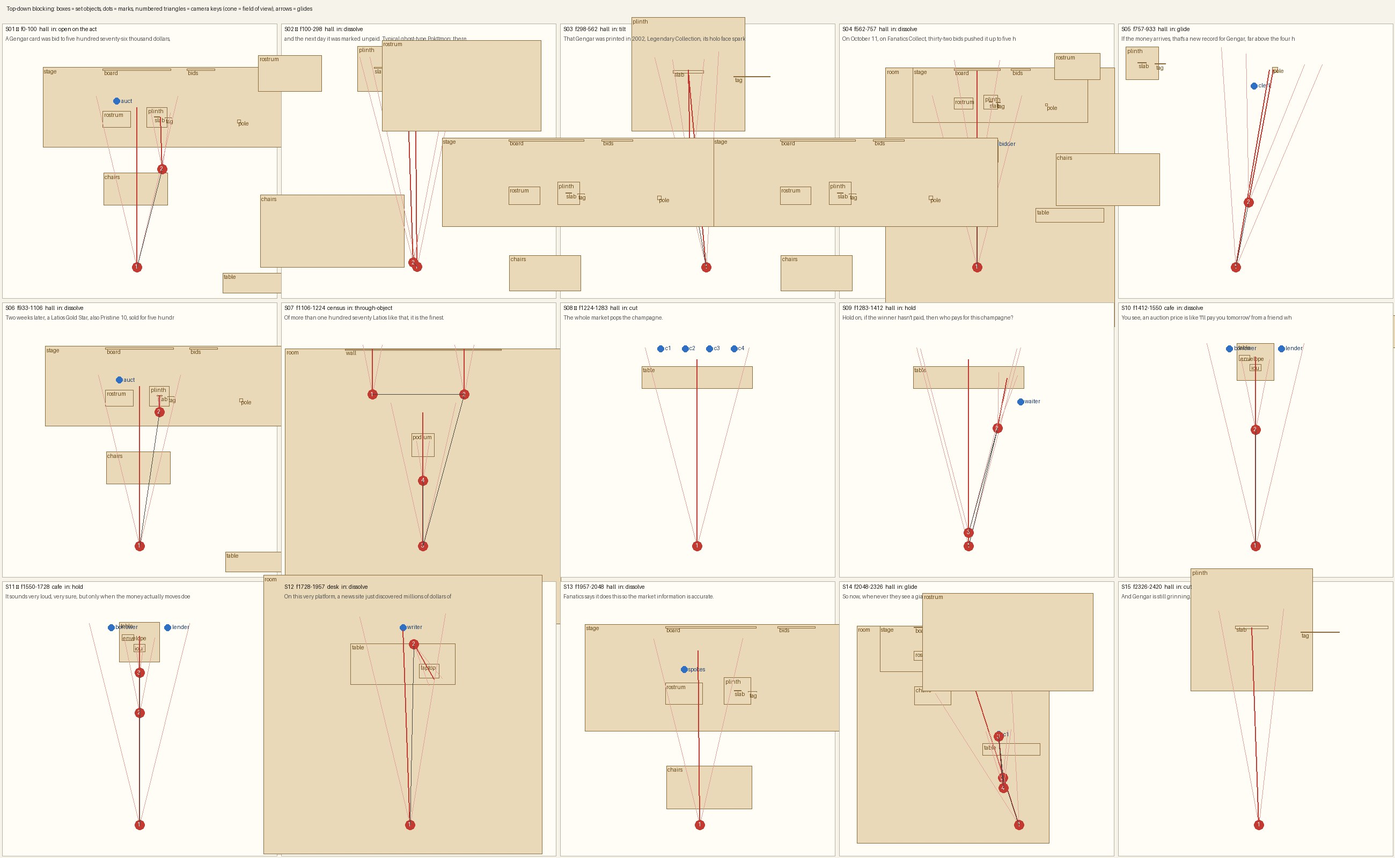
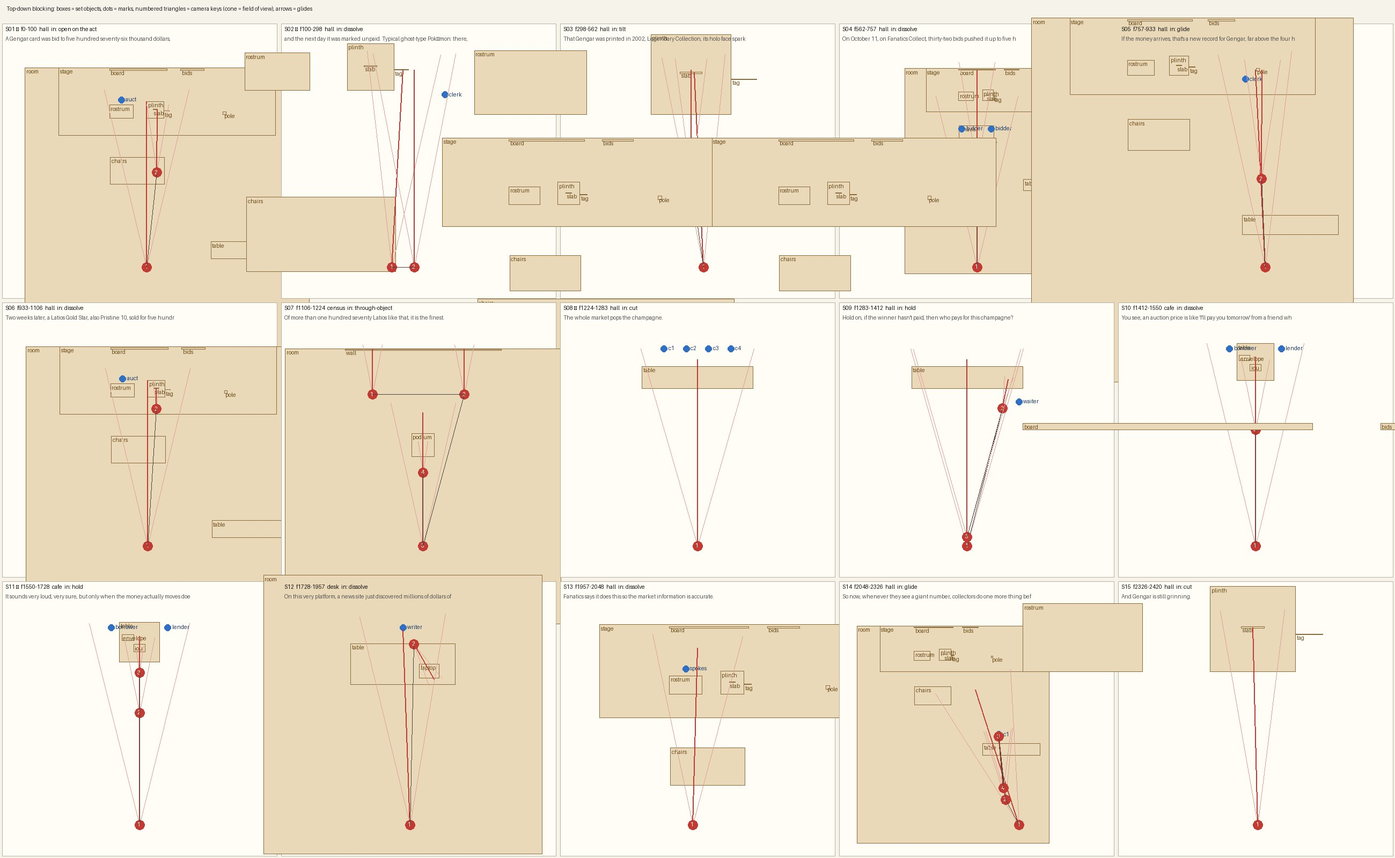
Gengar reel: notes, direction, CLAUDE.md row, framing fixes (tag string, wide, ghost tilt, bill insert)

diff --git a/src/videos/gengar/art2.ts b/src/videos/gengar/art2.ts
@@ -236,7 +236,7 @@ type Row = { img: string; name: string; price: number; date: string };
 export const ROWS: Row[] = [
   { img: "zard_base", name: "Charizard · Base Set", price: 336000, date: "09/10" },
   { img: "ds_metagross_star", name: "Metagross ★ · Delta Species", price: 108000, date: "06/10" },
-  { img: "sky_h3", name: "Celebi · Skyridge", price: 192000, date: "03/10" },
+  { img: "sky_h3", name: "Articuno · Skyridge", price: 192000, date: "03/10" },
   { img: "mewtwo", name: "Mewtwo · Base Set", price: 64000, date: "28/09" },
   { img: "zard_lc", name: "Charizard · Legendary Col.", price: 1250000, date: "21/09" },
   { img: "ds_rayquaza", name: "Rayquaza · Delta Species", price: 846000, date: "14/09" },

diff --git a/videos/gengar-unpaid/mkplan.py b/videos/gengar-unpaid/mkplan.py
@@ -14,11 +14,11 @@ SY = 0.3   # stage top
 HALL = dict(room=[-4.2, 4.2, -4.0, 5.5], h=4.2, stage=[-3.2, 3.2, -4.0, -2.0], stage_y=SY,
             rostrum=[-1.7, -1.0, -2.9, -2.5], rostrum_y=1.4, auct=[-1.35, -3.05], block=[-1.35, 1.42, -2.8],
             plinth=[-0.6, -0.1, -3.0, -2.5], plinth_y=1.22, slab=[-0.35, 1.43, -2.76], slab_size=[0.2, 0.32], slab_tilt=0.2,
-            tag_top=[-0.2, 1.72, -2.72], tag_len=0.15, tag_size=[0.24, 0.135],
+            tag_top=[-0.02, 1.72, -2.72], tag_len=0.15, tag_size=[0.24, 0.135],
             board=[-0.85, 2.85, -3.94], board_size=[1.7, 0.645], bids=[0.75, 2.8, -3.94], bids_size=[0.7, 0.45],
             letters=[-0.85, 3.62, -3.94], calendar=[-2.6, 2.2, -3.94],
             pole=[1.7, -2.65], pole_top=3.5, mark_k=250000.0, old=408000, new=576000, clerk_pole=[1.38, -2.4],
-            clerk_in=[1.05, -2.4], clerk_tag=[0.3, -2.45],
+            clerk_in=[1.05, -2.4], clerk_tag=[0.45, -2.45],
             bidders=[[-1.55, -1.2], [-0.2, -1.2], [-0.88, -0.5]],
             table=[1.3, 3.8, 1.15, 1.65], table_y=1.0, coll=[[1.8, 0.75], [2.3, 0.75], [2.8, 0.75], [3.3, 0.75]],
             tower=[2.55, 1.0, 1.4], waiter_in=[4.0, 2.3], waiter=[3.72, 1.95], bill=[3.45, 1.0, 1.42], c1_late=[2.0, 0.75])
@@ -39,7 +39,7 @@ COLL_HEAD = [[x, 1.55, z] for x, z in H["coll"]]
 SCREEN = DESK["screen"]
 CAM_POV = dict(pos=[0.19, 1.17, -1.21], look=SCREEN)
 PHONE = [2.06, 1.28, 1.02]; EYE14 = [2.0, 1.66, 0.75]
-WIDE = dict(pos=[-0.75, 1.8, 1.9], look=[-0.75, 1.95, -3.0])   # the stage: the board over the rostrum and the lot plinth (S01, S06)
+WIDE = dict(pos=[-0.6, 1.8, 1.9], look=[-0.6, 1.95, -3.0])   # the stage: the board over the rostrum and the lot plinth (S01, S06)
 
 P = {
  "fps": 30, "frames": 2420, "voice_end": 2389,
@@ -134,8 +134,8 @@ scene(id="S02", hero=True, f=[100, 298], set="hall", light="day", dim=0.86,
   blocking="Clerk enters from the stage right (clerk_in) f104-140 to the clerk mark beside the plinth, faces +z.",
   action="f104-140 the clerk walks in; f150-156 his left arm (screen right) reaches the tag's edge, f156 a flick (2 f before 'chưa' f158): the tag spins on its string 1.5 turns, slowing, and stops on its back, CHƯA THANH TOÁN in red, by f182; f196-236 'hệ ma': the tag shivers (2 mm jitter) and fades to a purple see-through ghost, its corners curling like a sheet; f243 'có đó' it hangs; f262 it slips off the string and floats up with a slow S-wobble (0.6 m/s); f278-292 'biến mất' it fades out at y 2.6; the empty string sways. The clerk looks up, shocked.",
   acting="Clerk: neutral -> shock on the lift (f262).",
-  cams=[k(100, [-0.25, 1.6, -0.6], [-0.12, 1.55, -2.72], 34, push=0.0015, blur=8, focus=TAG, why="the plinth next day; the clerk comes in"),
-        k(254, [-0.2, 1.72, -0.6], [-0.15, 2.35, -2.72], 38, glide=30, push=0.001, blur=6, focus=[TAG[0], 2.3, TAG[2]], why="tilt up with the ghost")],
+  cams=[k(100, [-0.12, 1.6, -0.6], [0.0, 1.55, -2.72], 34, push=0.0015, blur=8, focus=TAG, why="the plinth next day; the clerk comes in"),
+        k(254, [0.12, 1.72, -0.6], [0.12, 2.3, -2.72], 38, glide=30, push=0.001, blur=6, focus=[TAG[0], 2.3, TAG[2]], why="tilt up with the ghost")],
   kicks=[], marks=[{"who": "clerk", "at": H["clerk_tag"], "view": "front", "pose": "walks in f104-140; flicks the tag f156; looks up f262", "expr": "neutral -> shock"}],
   subjects=[{"n": "tag", "p": TAG, "f": [100, 250]}],
   physics="tag spin: torsion pendulum, 1.5 turns decaying to rest on its back. Ghost: no gravity, rises 0.6 m/s with a sine side-wobble (amplitude 4 cm, 1.2 Hz), fades over 14 f.",
@@ -248,7 +248,7 @@ scene(id="S09", f=[1283, 1412], set="hall", light="day",
   action="f1285 'Khoan đã': the music cuts; everyone freezes mid-laugh (the one stillness, 10 f); f1336-1356 the waiter slides the folder onto the table's right end (bill mark), opens it; f1360-1385 collectors' eyes go to the bill; f1391 'ai trả?' (f1393): all four point at another collector with their right arm (c1 -> c2, c2 -> c3, c3 -> c4, c4 -> c1).",
   acting="Collectors: laugh -> frozen -> nervous; the waiter: polite smile.",
   cams=[k(1283, [2.55, 2.05, 5.2], [2.55, 1.25, 1.0], 54, glide=10, push=0.001, blur=4, focus=COLL_HEAD[1], why="the freeze"),
-        k(1330, [3.3, 2.0, 2.3], [3.42, 1.02, 1.42], 30, glide=30, push=0.002, blur=10, focus=H["bill"], why="the bill"),
+        k(1330, [3.35, 2.2, 2.1], [3.48, 1.0, 1.45], 28, glide=30, push=0.002, blur=10, focus=H["bill"], why="the bill"),
         k(1376, [2.55, 2.0, 5.0], [2.55, 1.25, 1.0], 54, glide=18, push=0.002, blur=4, focus=COLL_HEAD[1], why="everyone points")],
   kicks=[], marks=[{"who": "waiter", "at": H["waiter"], "view": "front", "pose": "walks in, slides the bill f1336-1356", "expr": "smile"}],
   subjects=[{"n": "bill", "p": H["bill"], "f": [1350, 1375]}] + [{"n": f"c{i+1} head", "p": COLL_HEAD[i], "f": [1395, 1411]} for i in range(4)],

diff --git a/videos/gengar-unpaid/direction.md b/videos/gengar-unpaid/direction.md
@@ -27,7 +27,7 @@ Hard cuts: S08 (the champagne) and S15 (Gengar at night). Dissolves for every ti
 ### hall
 - Origin in the shared world: [0, 0, 0]. Axes: the stage along the back wall (z -4..-2); +z toward the champagne table and the lens.
 - Light: day; sun az/el [-30, 40]. Open camera sides: +z.
-- Marks [x, z]: auct [-1.35, -3.15]; clerk [0.22, -2.45]; c1 [1.73, 0.75].
+- Marks [x, z]: auct [-1.35, -3.05]; clerk [0.45, -2.45]; c1 [1.8, 0.75].
 
 | id | build | centre [x, y, z] | size [x, y, z] m |
 |---|---|---|---|
@@ -35,8 +35,8 @@ Hard cuts: S08 (the champagne) and S15 (Gengar at night). Dissolves for every ti
 | stage | new: oak stage x -3.2..3.2, z -4..-2, top y 0.3, a dark front skirt | [0, 0.15, -3] | [6.4, 0.3, 2] |
 | rostrum | new: oak rostrum 70 x 40 cm, top y 1.4, a sound block and the gavel on top; FANATICS COLLECT plate on its front | [-1.35, 0.85, -2.7] | [0.7, 1.1, 0.4] |
 | plinth | new: white lot plinth 50 x 50 cm, top y 1.22; a brass easel holds the slab tilted back 0.2 rad; a brass arm on its right with a tag holder (the tag drops from it on a string) | [-0.35, 0.76, -2.75] | [0.5, 0.92, 0.5] |
-| slab | adapt:slabReal: a CGC-style case 13.5 x 21.5 cm (1.6x real, so it reads), gold label 'PRISTINE 10', the real Legendary Collection Gengar scan | [-0.35, 1.4, -2.76] | [0.135, 0.215, 0.012] |
-| tag | new: card tag 16 x 9 cm on a string (13 cm): front SOLD $576,000, back CHƯA THANH TOÁN in red; spins on its string; turns into a purple see-through ghost | [-0.07, 1.465, -2.74] | [0.16, 0.09, 0.003] |
+| slab | adapt:slabReal: a CGC-style case 20 x 32 cm (2.4x real, so it reads next to the people), gold label 'PRISTINE 10', the real Legendary Collection Gengar scan | [-0.35, 1.43, -2.76] | [0.135, 0.215, 0.012] |
+| tag | new: card tag 24 x 13.5 cm (oversized to read) on a string (15 cm): front SOLD $576,000, back CHƯA THANH TOÁN in red; spins on its string; turns into a purple see-through ghost | [-0.02, 1.5025, -2.72] | [0.16, 0.09, 0.003] |
 | board | reuse:priceBoardW: the price board 170 x 64.5 cm on the back wall (canvas), amber digits, SOLD lamp; CHÍNH XÁC lamp added under it (S13) | [-0.85, 2.85, -3.94] | [1.7, 0.645, 0.04] |
 | bids | new: bid counter 70 x 45 cm: LƯỢT TRẢ GIÁ and a two-digit flap count | [0.75, 2.8, -3.94] | [0.7, 0.45, 0.04] |
 | pole | new: record pole 8 cm square, y 0.3..3.5, a painted scale every $100k; plate KỶ LỤC GENGAR on top; brass marker $408,000 · 06/2026; a pull cord over a pulley at the top raises the new marker | [1.7, 1.9, -2.65] | [0.08, 3.2, 0.08] |
@@ -97,15 +97,15 @@ Hard cuts: S08 (the champagne) and S15 (Gengar at night). Dissolves for every ti
 - Set: hall. Light: day.
 - Build: new: the hall stage, rostrum with sound block, lot plinth with the Gengar slab and the tag arm, price board, bid counter, FANATICS COLLECT letters.
 - Blocking: Auctioneer behind the rostrum (auct mark, on the stage), gavel raised in his right arm (screen left) from f0.
-  - auct at [-1.35, -3.15], front; standing; gavel wind-up f70-76, slam f79; grin -> squeeze.
+  - auct at [-1.35, -3.05], front; standing; gavel wind-up f70-76, slam f79; grin -> squeeze.
 - Action, against the words: f0-70 the board counts the last steps up to $576,000 (in time with 'năm trăm bảy mươi sáu'); f70-76 wind-up of the gavel, held at the top f73-76; f79 the gavel slams the block (2 f before 'đô' f81): the board snaps to $576,000 with the red SOLD lamp; f80 the tag drops 15 cm out of its brass holder on its string and swings (damped pendulum, 4 swings) showing SOLD $576,000; f84-100 glide down to the slab and the swinging tag.
 - Acting: Auctioneer: a showman's grin; on the slam his eyes shut tight.
 - Camera keys:
 
 | f | move | pos | look | fov | push %/f | blur px | why |
 |---|---|---|---|---|---|---|---|
-| 0 | open | [-0.85, 1.75, 1] | [-0.85, 1.9, -3] | 46 | 0.2 | 4 | the board over the rostrum and the lot |
-| 84 | glide 22 f | [-0.22, 1.5, -1.45] | [-0.25, 1.46, -2.75] | 34 | 0.2 | 10 | push to the slab and the tag |
+| 0 | open | [-0.6, 1.8, 1.9] | [-0.6, 1.95, -3] | 46 | 0.2 | 4 | the board over the rostrum and the lot |
+| 84 | glide 22 f | [-0.3, 1.55, -0.9] | [-0.28, 1.5, -2.75] | 32 | 0.2 | 10 | push to the slab and the tag |
 
 - Kicks (7 f): f79 strength 1.
 - Physics & FX: tag: pendulum on a 13 cm string, released at f80 from 15 cm up: drops, snaps taut, swings ±25 deg damped (settles by f130). Gavel: 1 f strike, 2 f squash of the block.
@@ -120,15 +120,15 @@ Hard cuts: S08 (the champagne) and S15 (Gengar at night). Dissolves for every ti
 - Set: hall. Light: day.
 - Build: reuse the hall, empty, cooler light; the tag hanging.
 - Blocking: Clerk enters from the stage right (clerk_in) f104-140 to the clerk mark beside the plinth, faces +z.
-  - clerk at [0.22, -2.45], front; walks in f104-140; flicks the tag f156; looks up f262; neutral -> shock.
+  - clerk at [0.45, -2.45], front; walks in f104-140; flicks the tag f156; looks up f262; neutral -> shock.
 - Action, against the words: f104-140 the clerk walks in; f150-156 his left arm (screen right) reaches the tag's edge, f156 a flick (2 f before 'chưa' f158): the tag spins on its string 1.5 turns, slowing, and stops on its back, CHƯA THANH TOÁN in red, by f182; f196-236 'hệ ma': the tag shivers (2 mm jitter) and fades to a purple see-through ghost, its corners curling like a sheet; f243 'có đó' it hangs; f262 it slips off the string and floats up with a slow S-wobble (0.6 m/s); f278-292 'biến mất' it fades out at y 2.6; the empty string sways. The clerk looks up, shocked.
 - Acting: Clerk: neutral -> shock on the lift (f262).
 - Camera keys:
 
 | f | move | pos | look | fov | push %/f | blur px | why |
 |---|---|---|---|---|---|---|---|
-| 100 | open | [0.06, 1.55, -0.55] | [0.04, 1.52, -2.72] | 42 | 0.15 | 8 | the plinth next day; the clerk comes in |
-| 254 | glide 30 f | [0.02, 1.66, -0.6] | [-0.05, 2.35, -2.74] | 44 | 0.1 | 6 | tilt up with the ghost |
+| 100 | open | [-0.12, 1.6, -0.6] | [0, 1.55, -2.72] | 34 | 0.15 | 8 | the plinth next day; the clerk comes in |
+| 254 | glide 30 f | [0.12, 1.72, -0.6] | [0.12, 2.3, -2.72] | 38 | 0.1 | 6 | tilt up with the ghost |
 
 - Kicks (7 f): none.
 - Physics & FX: tag spin: torsion pendulum, 1.5 turns decaying to rest on its back. Ghost: no gravity, rises 0.6 m/s with a sine side-wobble (amplitude 4 cm, 1.2 Hz), fades over 14 f.
@@ -149,8 +149,8 @@ Hard cuts: S08 (the champagne) and S15 (Gengar at night). Dissolves for every ti
 
 | f | move | pos | look | fov | push %/f | blur px | why |
 |---|---|---|---|---|---|---|---|
-| 298 | open | [-0.27, 1.47, -1.9] | [-0.35, 1.43, -2.76] | 30 | 0.2 | 12 | the slab |
-| 512 | glide 26 f | [-0.34, 1.53, -2.28] | [-0.35, 1.5, -2.77] | 26 | 0.3 (punch 0.6 for 12 f) | 12 | the label: PRISTINE 10 |
+| 298 | open | [-0.27, 1.5, -1.55] | [-0.33, 1.46, -2.76] | 30 | 0.2 | 12 | the slab |
+| 512 | glide 26 f | [-0.35, 1.58, -2.08] | [-0.35, 1.55, -2.78] | 26 | 0.3 (punch 0.6 for 12 f) | 12 | the label: PRISTINE 10 |
 
 - Kicks (7 f): none.
 - Physics & FX: none.
@@ -174,7 +174,7 @@ Hard cuts: S08 (the champagne) and S15 (Gengar at night). Dissolves for every ti
 
 | f | move | pos | look | fov | push %/f | blur px | why |
 |---|---|---|---|---|---|---|---|
-| 562 | open | [-0.85, 1.95, 3.3] | [-0.85, 1.72, -2.6] | 50 | 0.15 | 4 | the bidders under the boards |
+| 562 | open | [-0.85, 2.55, 5.2] | [-0.85, 1.6, -2.2] | 46 | 0.15 | 4 | the bidders under the boards |
 | 722 | glide 30 f | [-0.85, 2.45, 0.6] | [-0.85, 2.7, -3.9] | 34 | 0.2 | 6 | the board lands on $576,000 |
 
 - Kicks (7 f): f750 strength 0.5.
@@ -197,8 +197,8 @@ Hard cuts: S08 (the champagne) and S15 (Gengar at night). Dissolves for every ti
 
 | f | move | pos | look | fov | push %/f | blur px | why |
 |---|---|---|---|---|---|---|---|
-| 757 | open | [1.1, 2.05, 0.4] | [1.62, 2.05, -2.65] | 46 | 0.15 | 6 | the record pole |
-| 880 | glide 30 f | [1.3, 2.2, -0.6] | [1.68, 2.2, -2.65] | 40 | 0.2 | 8 | the two markers |
+| 757 | open | [1.9, 2.3, 2.5] | [1.65, 2.1, -2.65] | 34 | 0.15 | 6 | the record pole |
+| 880 | glide 30 f | [1.8, 2.35, 0.2] | [1.82, 2.25, -2.65] | 30 | 0.2 | 8 | the two markers |
 
 - Kicks (7 f): none.
 - Physics & FX: marker: kinematic on the pole, eased per pull, a 1 cm overshoot at the top.
@@ -213,15 +213,15 @@ Hard cuts: S08 (the champagne) and S15 (Gengar at night). Dissolves for every ti
 - Set: hall. Light: day.
 - Build: reuse the S01 frame; the Latios slab (real EX Deoxys Latios Gold Star scan, gold PRISTINE 10 label) on the easel; a new SOLD tag in the holder.
 - Blocking: Auctioneer at the rostrum, gavel raised.
-  - auct at [-1.35, -3.15], front; slam f1094; grin -> squeeze.
+  - auct at [-1.35, -3.05], front; slam f1094; grin -> squeeze.
 - Action, against the words: f1062-1092 the board climbs $420,000 -> $504,000; f1084-1090 wind-up, f1094 slam (3 f before 'nghìn' f1097): board $504,000 + SOLD, the new tag drops and swings; f1096-1106 push into the slab.
 - Acting: Auctioneer grin, squeeze on the slam.
 - Camera keys:
 
 | f | move | pos | look | fov | push %/f | blur px | why |
 |---|---|---|---|---|---|---|---|
-| 933 | open | [-0.85, 1.75, 1] | [-0.85, 1.9, -3] | 46 | 0.15 | 4 | the same stage (locked frame) |
-| 1094 | glide 12 f | [-0.35, 1.42, -2.35] | [-0.35, 1.42, -2.76] | 22 | 0.6 | 10 | into the Latios |
+| 933 | open | [-0.6, 1.8, 1.9] | [-0.6, 1.95, -3] | 46 | 0.15 | 4 | the same stage (locked frame) |
+| 1094 | glide 12 f | [-0.35, 1.45, -2.15] | [-0.35, 1.44, -2.76] | 22 | 0.6 | 10 | into the Latios |
 
 - Kicks (7 f): f1094 strength 0.9.
 - Physics & FX: the tag as in S01.
@@ -245,7 +245,7 @@ Hard cuts: S08 (the champagne) and S15 (Gengar at night). Dissolves for every ti
 | 1106 | open | [-1.1, 1.52, -2] | [-1.1, 1.52, -3] | 38 | 0 | 3 | slab after slab |
 | 1110 | glide 56 f | [0.9, 1.55, -2] | [0.9, 1.55, -3] | 38 | 0 | 3 | truck along the wall |
 | 1166 | glide 28 f | [0, 1.45, 1.3] | [0, 1.38, -1.6] | 44 | 0.1 | 6 | the podium before the wall |
-| 1198 | glide 22 f | [0, 1.32, -0.12] | [0, 1.23, -0.92] | 32 | 0.3 | 12 | the best one |
+| 1198 | glide 22 f | [0, 1.3, -0.3] | [0, 1.23, -0.92] | 30 | 0.3 | 12 | the best one |
 
 - Kicks (7 f): none.
 - Physics & FX: none.
@@ -260,17 +260,17 @@ Hard cuts: S08 (the champagne) and S15 (Gengar at night). Dissolves for every ti
 - Set: hall. Light: day.
 - Build: reuse the hall's champagne table: four collectors behind it, each with a bottle; a coupe tower.
 - Blocking: Collectors c1-c4 behind the table on their marks, facing +z, bottles raised at 45 deg in their right arms.
-  - c1 at [1.73, 0.75], front; standing; bottle pop f1252; grin -> laugh.
-  - c2 at [2.28, 0.75], front; standing; bottle pop f1252; grin -> laugh.
-  - c3 at [2.83, 0.75], front; standing; bottle pop f1252; grin -> laugh.
-  - c4 at [3.38, 0.75], front; standing; bottle pop f1252; grin -> laugh.
+  - c1 at [1.8, 0.75], front; standing; bottle pop f1252; grin -> laugh.
+  - c2 at [2.3, 0.75], front; standing; bottle pop f1252; grin -> laugh.
+  - c3 at [2.8, 0.75], front; standing; bottle pop f1252; grin -> laugh.
+  - c4 at [3.3, 0.75], front; standing; bottle pop f1252; grin -> laugh.
 - Action, against the words: Hard cut on 'Cả' (f1226); f1240-1250 thumbs-less push: the bottles tilt up; f1252 four corks pop together (1 f before 'mở' f1253): corks fly up and back (2-3 m), foam bursts from each neck (fxSplash) for 10 f; the corks hit the floor behind the table, bounce twice and stay; collectors laugh.
 - Acting: Collectors: grin -> laugh.
 - Camera keys:
 
 | f | move | pos | look | fov | push %/f | blur px | why |
 |---|---|---|---|---|---|---|---|
-| 1224 | open | [2.55, 1.55, 5.2] | [2.55, 1.38, 1] | 50 | 0.2 (punch 0.6 for 10 f) | 4 | the champagne table |
+| 1224 | open | [2.55, 2.05, 5.2] | [2.55, 1.25, 1] | 54 | 0.2 (punch 0.6 for 10 f) | 4 | the champagne table |
 
 - Kicks (7 f): f1252 strength 0.8.
 - Physics & FX: corks: 8 g, launched 4-5 m/s up and back from each neck, gravity, restitution 0.4 on the floor, friction 0.5; they rest and stay (seen in S09 and S14).
@@ -292,9 +292,9 @@ Hard cuts: S08 (the champagne) and S15 (Gengar at night). Dissolves for every ti
 
 | f | move | pos | look | fov | push %/f | blur px | why |
 |---|---|---|---|---|---|---|---|
-| 1283 | open | [2.55, 1.55, 5.2] | [2.55, 1.38, 1] | 50 | 0.1 | 4 | the freeze |
-| 1330 | glide 30 f | [3.2, 1.72, 2.55] | [3.42, 1.02, 1.42] | 34 | 0.2 | 10 | the bill |
-| 1376 | glide 18 f | [2.55, 1.58, 4.9] | [2.55, 1.4, 1] | 50 | 0.2 | 4 | everyone points |
+| 1283 | open | [2.55, 2.05, 5.2] | [2.55, 1.25, 1] | 54 | 0.1 | 4 | the freeze |
+| 1330 | glide 30 f | [3.35, 2.2, 2.1] | [3.48, 1, 1.45] | 28 | 0.2 | 10 | the bill |
+| 1376 | glide 18 f | [2.55, 2, 5] | [2.55, 1.25, 1] | 54 | 0.2 | 4 | everyone points |
 
 - Kicks (7 f): none.
 - Physics & FX: the folder: slides 30 cm, stops; opens on its spine.
@@ -381,14 +381,14 @@ Hard cuts: S08 (the champagne) and S15 (Gengar at night). Dissolves for every ti
 - Set: hall. Light: day.
 - Build: reuse the rostrum and the price board; a big green button on the rostrum; a CHÍNH XÁC lamp under the board.
 - Blocking: Spokesman behind the rostrum (auct mark), facing +z.
-  - spokes at [-1.35, -3.15], front; talks; presses the button f2030; smile.
+  - spokes at [-1.35, -3.05], front; talks; presses the button f2030; smile.
 - Action, against the words: f1957-2020 the board shows $576,000 SOLD; the spokesman talks; f2026-2030 his right arm presses the button (contact f2030, 2 f before 'chính xác' f2032): the board clears to '—', the CHÍNH XÁC lamp lights green; he smiles.
 - Acting: Spokesman: practised smile.
 - Camera keys:
 
 | f | move | pos | look | fov | push %/f | blur px | why |
 |---|---|---|---|---|---|---|---|
-| 1957 | open | [-1.05, 1.95, -0.25] | [-1.08, 2.2, -3.5] | 46 | 0.2 | 6 | the spokesman under the board |
+| 1957 | open | [-1.2, 1.9, 0.3] | [-1.1, 2.15, -3.5] | 46 | 0.2 | 6 | the spokesman under the board |
 
 - Kicks (7 f): f2030 strength 0.4.
 - Physics & FX: the button: 1 cm press.
@@ -411,8 +411,8 @@ Hard cuts: S08 (the champagne) and S15 (Gengar at night). Dissolves for every ti
 | f | move | pos | look | fov | push %/f | blur px | why |
 |---|---|---|---|---|---|---|---|
 | 2048 | open | [2.9, 1.55, 4.7] | [1, 2, -1.2] | 50 | 0.15 | 4 | him and the big board |
-| 2134 | glide 24 f | [2.18, 1.5, 2.65] | [2, 1.42, 0.75] | 40 | 0.2 | 8 | the bottle held |
-| 2210 | glide 20 f | [2, 1.6, 0.84] | [2.06, 1.28, 1.02] | 30 | 0.1 | 6 | his phone, from his eyes |
+| 2134 | glide 24 f | [2.3, 1.6, 3.6] | [2, 1.45, 0.75] | 40 | 0.2 | 8 | the bottle held |
+| 2210 | cut | [2, 1.6, 0.84] | [2.06, 1.28, 1.02] | 30 | 0.1 | 6 | his phone, from his eyes |
 | 2298 | glide 12 f | [2.2, 1.55, 3.1] | [2, 1.55, 0.75] | 42 | 0.2 | 6 | the pop |
 
 - Kicks (7 f): f2312 strength 0.6.
@@ -434,7 +434,7 @@ Hard cuts: S08 (the champagne) and S15 (Gengar at night). Dissolves for every ti
 
 | f | move | pos | look | fov | push %/f | blur px | why |
 |---|---|---|---|---|---|---|---|
-| 2326 | open | [-0.32, 1.47, -1.95] | [-0.35, 1.44, -2.76] | 30 | 0.4 | 12 | Gengar, still grinning |
+| 2326 | open | [-0.32, 1.5, -1.6] | [-0.35, 1.47, -2.76] | 30 | 0.4 | 12 | Gengar, still grinning |
 
 - Kicks (7 f): none.
 - Physics & FX: the ghost: no gravity, sine drift.

diff --git a/videos/gengar-unpaid/notes.md b/videos/gengar-unpaid/notes.md
@@ -1,3 +1,19 @@
 # Gengar: notes
 
 Composition `GengarReel` · code `src/videos/gengar/` · assets `public/gengar/`
+
+## Build log (v1, 22 Nov 2026)
+- VO `9 - Gengar.mp3` saved as `voice.mp3`; script unchanged from `script.md` (topic 9, approved). `vo_words.py` (run with `../.venv/bin/python3`): 273 words, VO ends 79.64 s = f2389; reel 2420 f. Every `check:` line was a number or a spelling (576.000, 2002, Goldstar, xâm/sâm, siêu/sưu, an extra "Sự" heard in "thật sự").
+- The user asked for the whole reel without stopping ("start this without stopping until you have a render command"), so beats went straight to direction and build with no beat review.
+- Facts as in `facts.md` (CGC article for the sale and Latios; the "unpaid" status rests on a secondary blog, as the script says). No likenesses: generic house cartoons; the news site is not named.
+- Visual law: **unpaid = a ghost** (Gengar is a ghost type). The SOLD tag flips to CHƯA THANH TOÁN, goes purple and see-through with a ghost's face, slips off its string and floats out of sight; the pending record marker, the borrower's IOU and the erased sales rows are ghosts too. Paid = solid with a green ĐÃ TRẢ stamp.
+- Plan: `mkplan.py` → `plan.json` (15 scenes, 4 sets: Fanatics Collect hall, census gallery, café, writer's desk; 0 check errors; warnings are deliberate pushes/POV glides). Hard cuts: S08 (the champagne), the S14 cut into the phone POV, S15 (Gengar at night). `direction.md`, `plan_view.jpg`.
+- Cards: new in the library `lc_gengar` (Legendary Collection Gengar 11; the sold copy is the reverse holo, the library scan is the holo) and `dx_latios_star` (EX Deoxys Latios ★ 106); with `zard_base`, `ds_metagross_star`, `sky_h3` (Articuno), `mewtwo`, `zard_lc`, `ds_rayquaza`, `pikachu`, `blastoise` on the sales-history pages. The slabs are CGC-style with a gold PRISTINE 10 label (plain lettering).
+- Base: the TCGplayer build (`BASE=tcgplayer new_reel.sh`), engine imported unchanged. One reel-level change in `story.ts`: a scene whose In is a glide, tilt or hold now starts from the previous scene's last camera and glides into its first key (S03, S05, S09, S11, S14), so those joins are real camera moves, not jump cuts.
+- New pieces worth adding to library/INDEX.md after review: the CGC-style slab (`cgcSlab`), the lot tag with a flip flap (LOT n → SOLD), a spin on its string and a ghost state (`tagFace`/`tagGhost`); a record pole with a painted scale and a pull-cord marker (`markerY`); a census wall of 170 slabs on one canvas; the champagne table with bottles and corks that fly, bounce and stay; the café table with a megaphone (sound rings), hopping cups, a sliding envelope and a ghost IOU that turns solid; the sales-history laptop page whose rows ghost away; the phone sales-history page with a stamped badge; the price board with a CHÍNH XÁC lamp.
+- Captions: `mkcaptions.py` (72 phrases, longest 28 characters). Sound: `audio/gengar_audio.py` (pluck ostinato that speeds up with the bids, a theremin glide for the ghost, music-box sparkle, party brass, café vibes, a drone for the erased sales, a music-box sign-off; memes: Kaching x4 (the S01 and S06 hammers, the S04 landing, the ĐÃ TRẢ stamp), Kids Cheering on the corks, Huh on "Khoan đã", Suspicious on "ai trả?", Computer Error on "không nhận được tiền", Mobile Payment on "đã trả", Hehe Boiiiiiii on Gengar's grin; -14.7 LUFS, TP -1.2).
+- Sweep fixes before v1: the hero slab drawn 2.4x real size and the tag 1.5x so they read next to people; the tag's string moved right so the spun tag (it hangs on the other side of its string after the spin) doesn't cover the card; the S02 camera re-aimed so the tag leads and only the clerk's arm and face come in from the right; the S04 and S05 cameras pulled back (heads filled the frame); the census push tightened; the champagne camera raised and widened, collectors moved closer; the bill insert re-aimed; the megaphone moved to the borrower's mouth; fireworks, bottles and corks enlarged; the S13 spokesman centred under the board; the S14 close pulled back; the S14 POV made a cut (a glide would pass through his head).
+
+### Open
+- Seen only as stills: check the tag's flip and swing, the spin, the ghost lift, the corks' flight and bounce, the cups hopping, the envelope slide and the phone scroll in motion.
+- S12: the glide into the writer's POV passes close to his head (he is hidden within 0.9 m of the lens); look at it in motion.

diff --git a/CLAUDE.md b/CLAUDE.md
@@ -40,7 +40,7 @@ Account skills they call: `vn-news-script` (the script), `story-reel-director` (
 ## Layout
 | Path | What |
 |---|---|
-| `src/index.ts`, `src/Root.tsx` | Register the compositions: `JirachiReel`, `FossilReel`, `MonacoReel`, `ChocoboReel`, `FanaticsReel`, `MudkipReel`, `AtticReel`, `GpsReel`, `PsaReel`, `LucasReel`, `TcgplayerReel` (each with a `…Captions` comp), `BridgeShort`, `CharTest` |
+| `src/index.ts`, `src/Root.tsx` | Register the compositions: `JirachiReel`, `FossilReel`, `MonacoReel`, `ChocoboReel`, `FanaticsReel`, `MudkipReel`, `AtticReel`, `GpsReel`, `PsaReel`, `LucasReel`, `TcgplayerReel`, `GengarReel` (each with a `…Captions` comp), `BridgeShort`, `CharTest` |
 | `src/engine/` | The shared engine (toon characters, ink, shading, paint, lights, grade, lens blur, geometry). New reels import it; changes must be additive |
 | `src/videos/<reel>/` | One folder per reel: that reel's story, sets, cast, art, captions and `Reel.tsx` (see `library/INDEX.md`). The newest base is `monaco/` (channel logo, anti-flicker `box()` helper, near plane 0.12; `new_reel.sh` copies it). Attic, GPS, PSA and Bridge still hold their own engine copies |
 | `src/enzo/` | Enzo's `Title2` titles and the Bolota font loader |
@@ -55,6 +55,7 @@ Account skills they call: `vn-news-script` (the script), `story-reel-director` (
 
 | Reel | Composition | Video folder | Status |
 |---|---|---|---|
+| Gengar unpaid ($576k Pristine 10, marked unpaid) | `GengarReel` (2420 f) | `videos/gengar-unpaid/` | v1 built, ready to render (22 Nov 2026) |
 | Lucas DeRuyter's big collection ("easy as candy") | `LucasReel` (2430 f) | `videos/lucas-big-collection/` | v1 built, ready to render (22 Nov 2026) |
 | TCGplayer sellers (the billion and the missing chair) | `TcgplayerReel` (2360 f) | `videos/tcgplayer-sellers/` | v1 built, ready to render (22 Nov 2026) |
 | Avery the Poke Kid's Jirachi (scalpers) | `JirachiReel` (2250 f) | `videos/avery-jirachi-scalpers/` | v1 built, ready to render (22 Nov 2026) |
